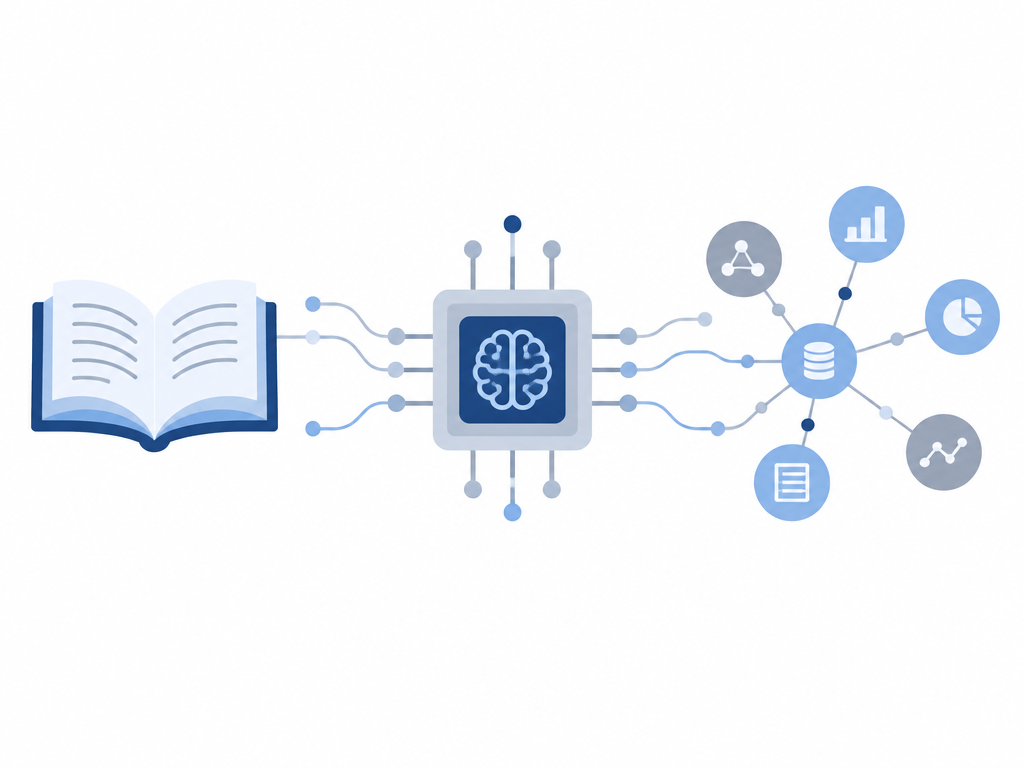
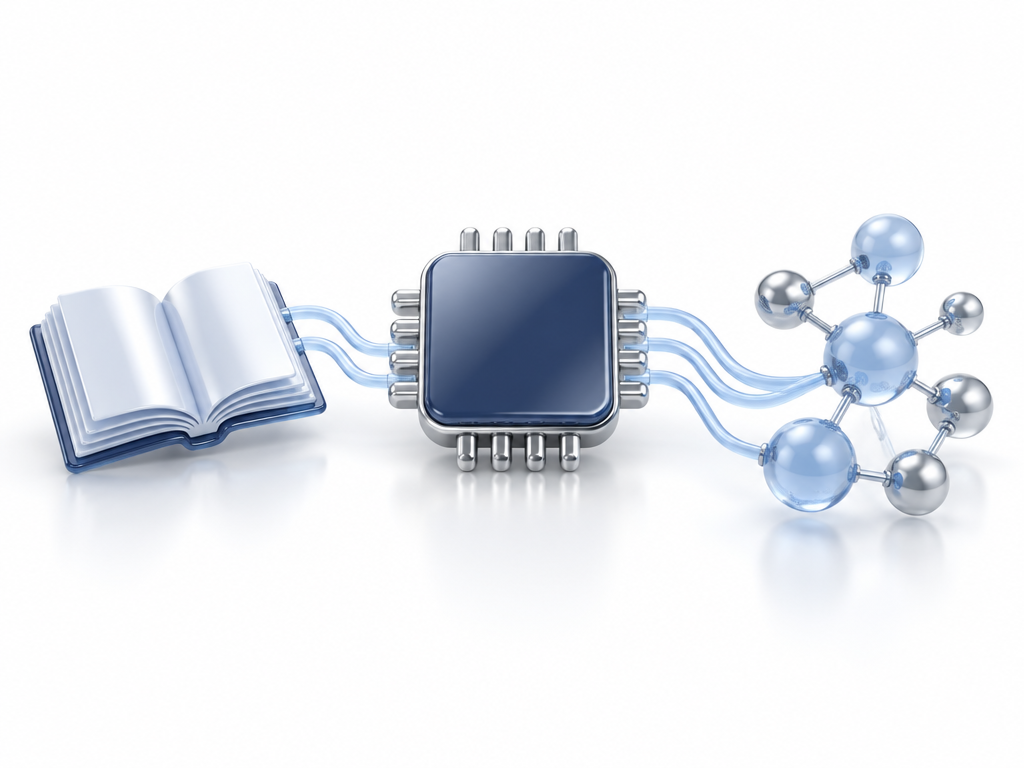
Changes

Changed region(s): [[0.0312, 0.2188, 1.0, 0.75]]

diff --git a/roadmap.md b/roadmap.md
@@ -92,3 +92,5 @@ Content Approval → Final Responsive QA → AWS Integration → Production Depl
 - [x] Exafluence Inc. section content revised 15 Oct: six items now use the client-approved bullet lists (About, Mission, Vision, How We Work, Quality & Standards, Tools & Technologies) rendered as styled bullet lists; university-industry picture removed from the intro panel per client.
 - [x] Give the six Exafluence Inc. expandable boxes the same gentle hover animations as the eight circle cards (lift/grow, soft shadow, reduced-motion safe).
 - [x] Exafluence Inc. section rebuilt to match the "Discover jobs" reference: pale intro panel on the left, white card overlapping its right edge, all six dropdown boxes visible in 2 columns x 3 rows (no slides/arrows/dots); verified desktop + phone, no overflow, expansion still shows approved bullets (client "this" 11:27 UTC)
+- [x] Exafluence Inc. section: no row selected initially; right panel shows AI chip/book/data-nodes illustration until a row is clicked (fade, mobile illustration above rows)
+- [ ] Exafluence Inc. panel illustration remade in 3D glossy style (client 11:38 UTC)
